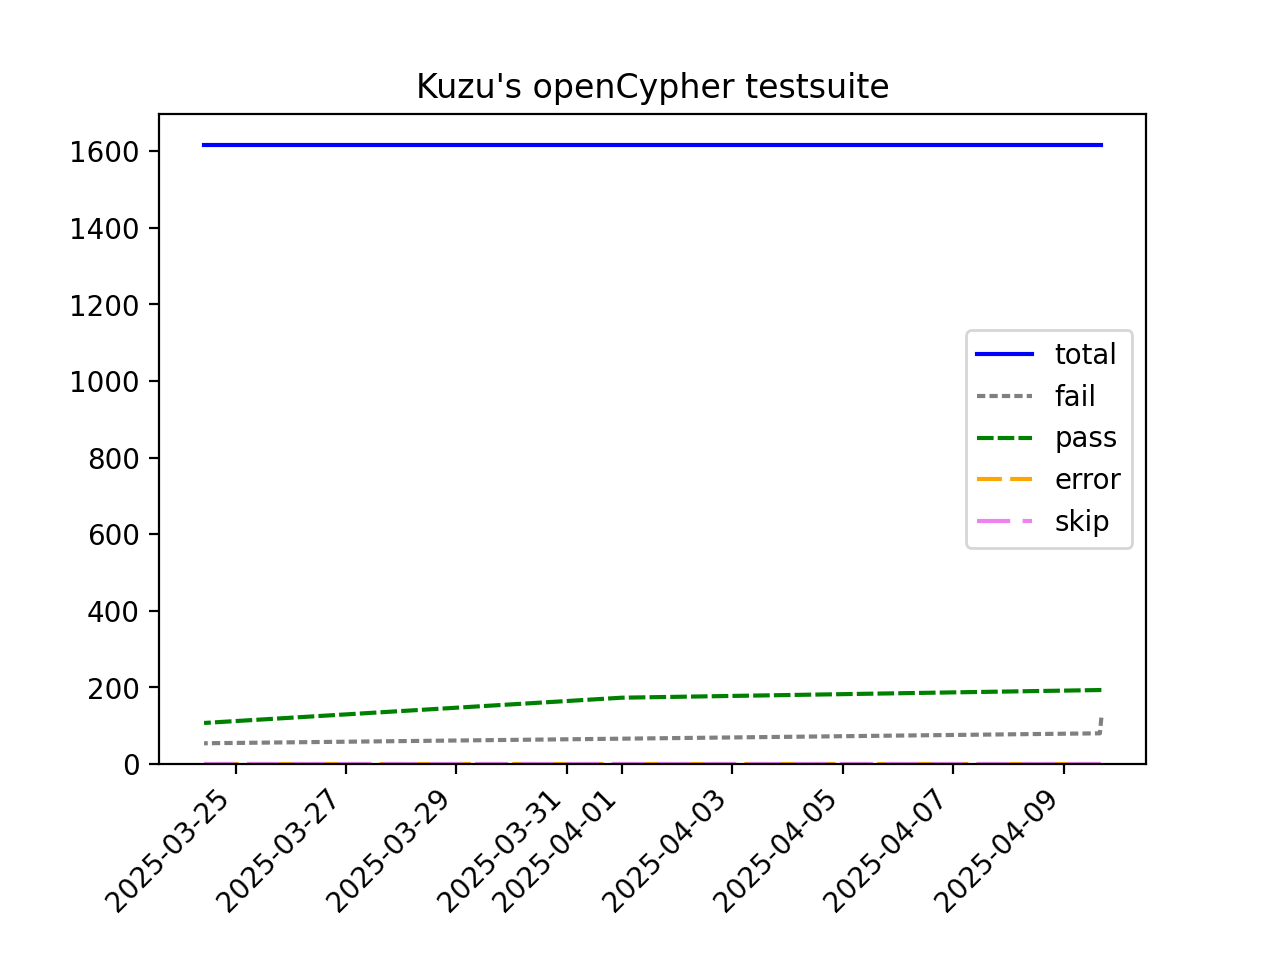
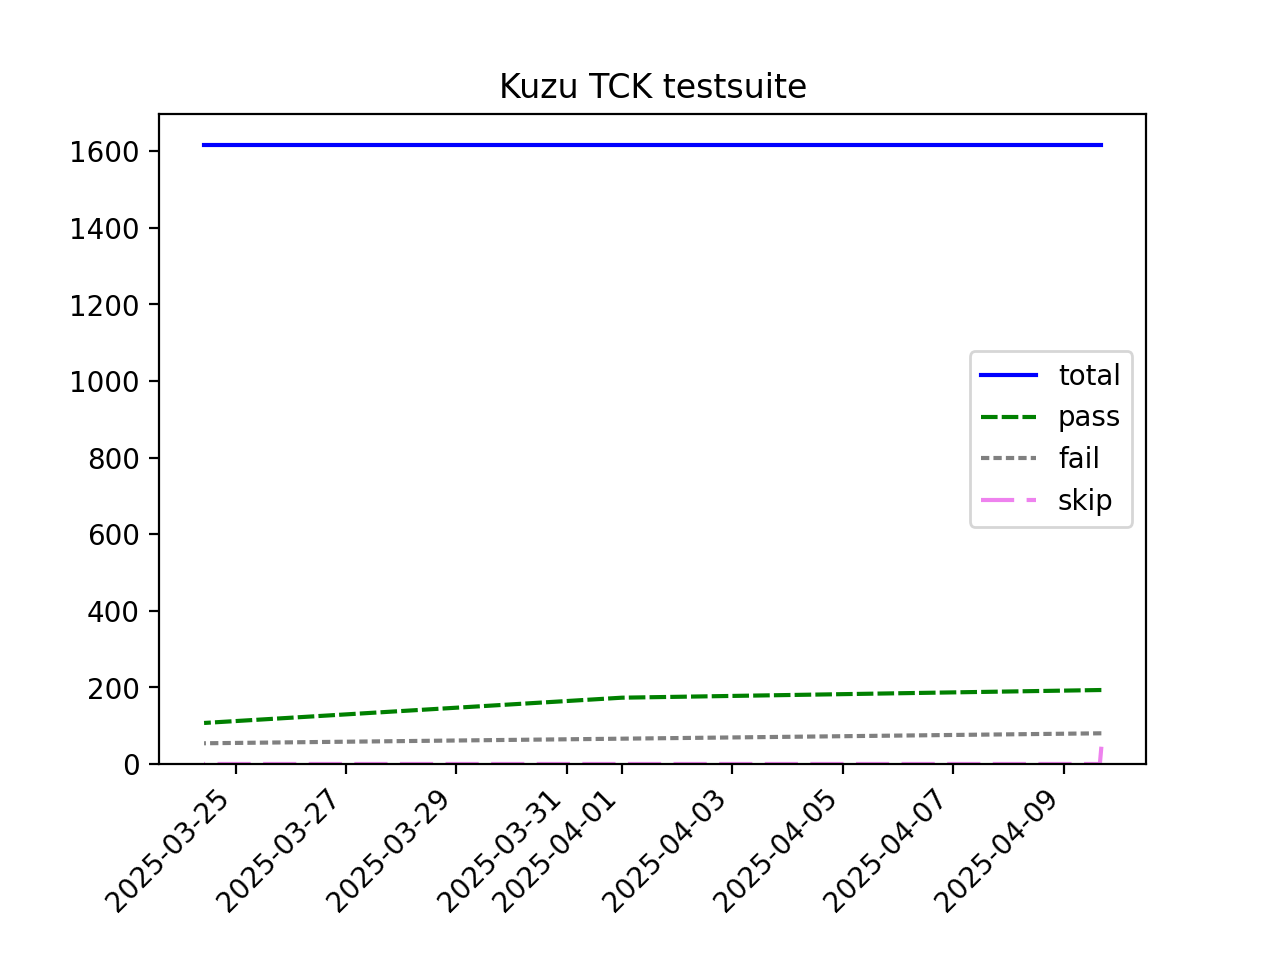
scripts

Changed region(s): [[0.7353, 0.334, 0.8885, 0.577], [0.337, 0.0607, 0.7046, 0.1215]]

diff --git a/scripts/graph.py b/scripts/graph.py
@@ -33,12 +33,10 @@ print(df)
 
 ax = plt.gca()
 df.plot(y="total", color="blue", ax=ax)
-df.plot(y="fail", color="gray", ax=ax, dashes=(2, 1))
 df.plot(y="pass", color="green", ax=ax, dashes=(4, 1))
-if "error" in df:
-   df.plot(y="error", color="orange", ax=ax, dashes=(6, 2))
+df.plot(y="fail", color="gray", ax=ax, dashes=(2, 1))
 df.plot(y="skip", color="violet", ax=ax, dashes=(8, 3))
-plt.title("Kuzu's openCypher testsuite")
+plt.title("Kuzu TCK testsuite")
 plt.xticks(rotation=45)
 plt.ylim(ymin=0)
 plt.savefig("results.png", dpi=199)
